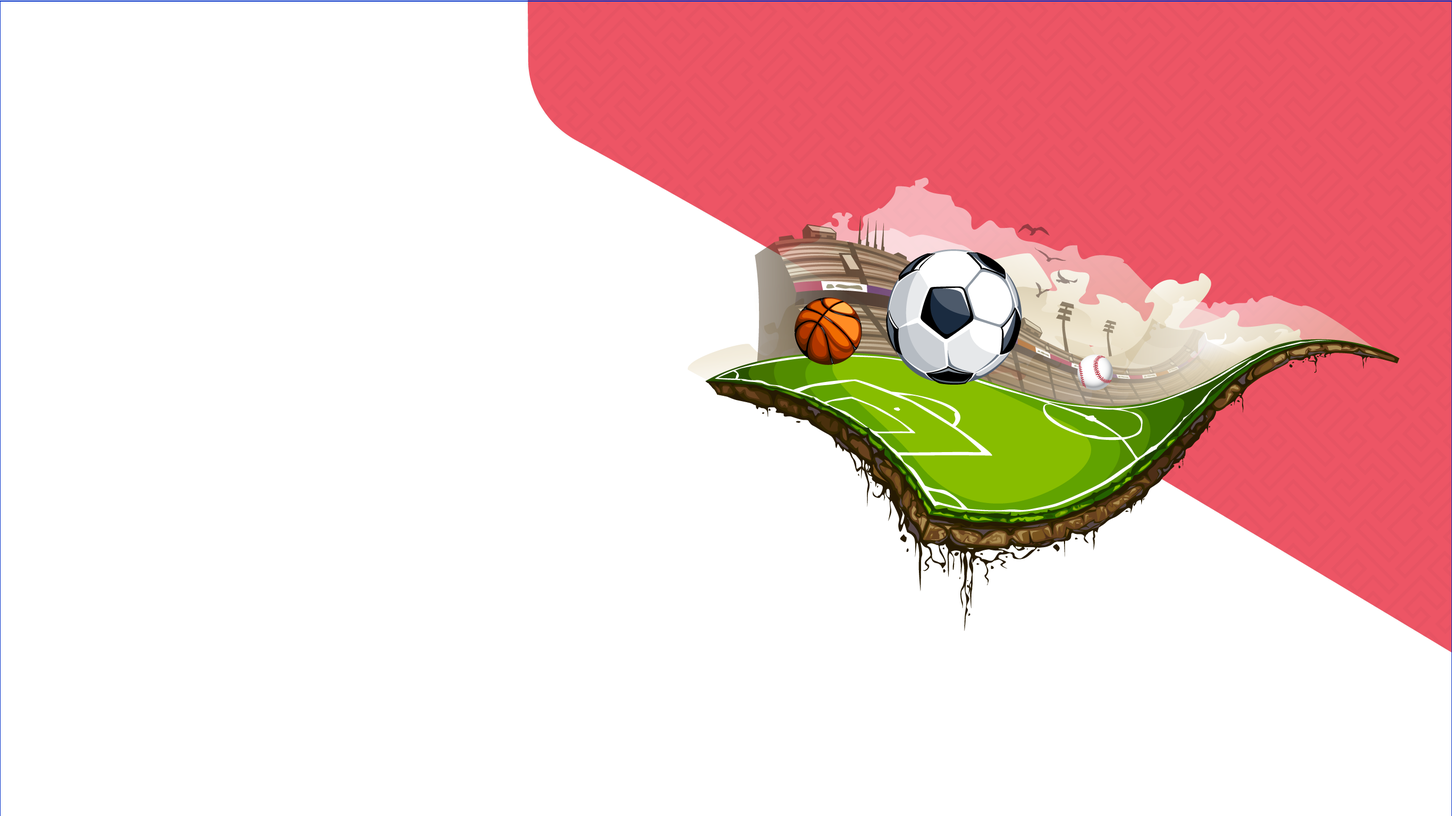
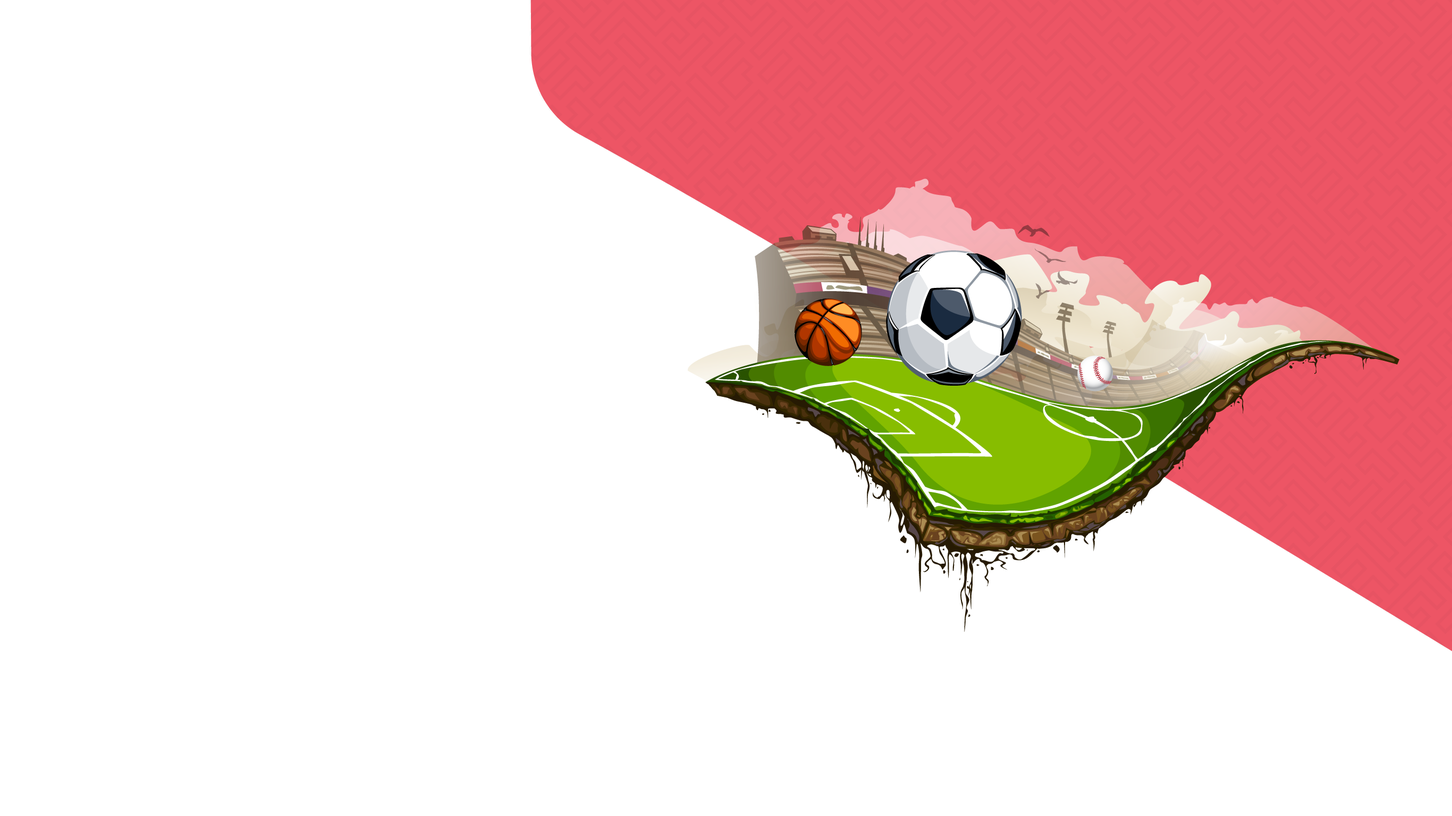
Responsive

diff --git a/cryptochamps/css/css-bundle.css b/cryptochamps/css/css-bundle.css
@@ -1,2 +1,2 @@
-.filter-invert{-webkit-filter:invert(100%);filter:invert(100%)}.clearfix:after,.clearfix:before{content:"";display:table}.clearfix:after{clear:both}.center-block{display:block;margin-left:auto;margin-right:auto}.title{letter-spacing:0!important}.text-overflow-ellipsis{white-space:nowrap;overflow:hidden;text-overflow:ellipsis}@font-face{font-family:Univers;font-weight:300;src:url(../fonts/Univers/Univers-light-normal.ttf) format("truetype")}@font-face{font-family:Univers;font-weight:400;src:url(../fonts/Univers/UniversLTStd.otf) format("opentype")}@font-face{font-family:Univers;font-weight:600;src:url(../fonts/Univers/UniversLTStd-Bold.otf) format("opentype")}@font-face{font-family:Univers;font-weight:700;src:url(../fonts/Univers/UniversBlack.otf) format("truetype")}.container-responsive{overflow:hidden;width:100%;padding:0 100px}@media (max-width:991px){.container-responsive{width:100%;padding:0 15px}}.container-responsive-lg{overflow:hidden;width:86%;margin:0 auto}@media (max-width:991px){.container-responsive-lg{width:100%;padding:0 15px}}.display-table{display:table;width:100%}.display-table>.display-table-row{display:table-row}.display-table>.display-table-row>.display-table-cell{display:table-cell}.display-table-md{display:table;width:100%}.display-table-md>.display-table-row{display:table-row}.display-table-md>.display-table-row>.display-table-cell{display:table-cell}@media (max-width:991px){.display-table-md>.display-table-row>.display-table-cell{display:block;width:100%!important}}.display-table-sm{display:table;width:100%}.display-table-sm>.display-table-row{display:table-row}.display-table-sm>.display-table-row>.display-table-cell{display:table-cell}@media (max-width:767px){.display-table-sm>.display-table-row>.display-table-cell{display:block;width:100%!important}}@media (max-width:991px){.margin-bottom-md-50{margin-bottom:50px}}.margin-bottom-40{margin-bottom:40px!important}.margin-bottom-20{margin-bottom:20px!important}.no-padding{padding:0!important}@media (min-width:768px){.padding-left-sm{padding-left:15px!important}}@media (min-width:992px){.padding-left-md{padding-left:15px!important}}.no-gutter>[class*=col-]{padding-right:0;padding-left:0}@media (min-width:992px){.no-gutter>[class*=col-]{padding-left:15px;padding-right:15px}}@media only screen and (min-width:768px){.is-table-row-sm{display:table}.is-table-row-sm [class*=col-]{float:none;display:table-cell;vertical-align:middle}}@media only screen and (min-width:992px){.is-table-row-md{display:table}.is-table-row-md [class*=col-]{float:none;display:table-cell;vertical-align:middle}}.input:focus{outline:none;-webkit-box-shadow:none;box-shadow:none}.btn-custom{font-family:Univers,sans-serif;font-weight:400;letter-spacing:.03em;text-transform:uppercase;letter-spacing:.15em;font-size:12px;font-size:1.2rem;border-width:.3rem;border-style:solid;padding:1.4rem 3em;border-radius:2.5rem;line-height:1;text-align:center;display:inline-block;cursor:pointer;-webkit-transition:background-color .3s;transition:background-color .3s}.btn-custom.small{padding:.75rem 1rem;line-height:1.2}.btn-custom-white{font-family:Univers,sans-serif;font-weight:400;letter-spacing:.03em;text-transform:uppercase;letter-spacing:.15em;font-size:12px;font-size:1.2rem;border-width:.3rem;border-style:solid;padding:1.4rem 3em;border-radius:2.5rem;line-height:1;text-align:center;display:inline-block;cursor:pointer;-webkit-transition:background-color .3s;transition:background-color .3s;background-color:#fff;color:#000!important}.btn-custom-white.small{padding:.75rem 1rem;line-height:1.2}.btn-custom-white:hover{background-color:#f2f2f2}.btn-custom-mandy{font-family:Univers,sans-serif;font-weight:400;letter-spacing:.03em;text-transform:uppercase;letter-spacing:.15em;font-size:12px;font-size:1.2rem;padding:1.4rem 3em;border-radius:2.5rem;line-height:1;text-align:center;display:inline-block;cursor:pointer;-webkit-transition:background-color .3s;transition:background-color .3s;background-color:#ed5565;border:.3rem solid #ed5565;color:#fff!important}.btn-custom-mandy.small{padding:.75rem 1rem;line-height:1.2}.btn-custom-mandy:hover{background-color:transparent;color:#ed5565!important}.nav{height:8rem;background-color:#fff;border-bottom:.1rem solid #f9f9f9;position:fixed;top:0;left:0;right:0;z-index:1}.nav .container-responsive,.nav .container-responsive>.display-table{height:100%}.nav .container-responsive>.display-table .display-table-cell{vertical-align:middle}.nav .container-responsive>.display-table .display-table-cell:first-of-type{width:30%}@media (min-width:992px){.nav .container-responsive>.display-table .display-table-cell:first-of-type{width:30%}}.nav .container-responsive>.display-table .display-table-cell:first-of-type .logo{height:5.5rem;display:inline-block}.nav .container-responsive>.display-table .display-table-cell:last-of-type{width:70%}@media (min-width:992px){.nav .container-responsive>.display-table .display-table-cell:last-of-type{width:70%}}.home-page{margin-top:8rem}.home-page .header{height:calc(85vh - 8rem);background:url(../img/bg.png),-webkit-gradient(linear,left top,left bottom,from(#f9f9f9),to(#f9f9f9));background:url(../img/bg.png),linear-gradient(#f9f9f9,#f9f9f9);background-position:50%;background-attachment:fixed;background-size:cover;position:relative}.home-page .header .caption{width:40%;position:absolute;top:50%;bottom:auto;left:10rem;-webkit-transform:translateY(-50%);transform:translateY(-50%)}.home-page .header .caption h1{margin-bottom:4rem}.home-page .header .caption h1 span{color:#8ec244}.home-page .section-title-indicator{margin-bottom:4rem}.home-page .section-title-indicator div{height:1rem;background-color:#ed5565;margin-bottom:.5rem}.home-page .section-title-indicator div:first-of-type{width:8.2rem}.home-page .section-title-indicator div:last-of-type{width:6.1rem}.home-page .section-1{padding:5rem 0;position:relative}.home-page .section-1 .section-title{margin-bottom:.3em}.home-page .section-1 .display-table-md{padding:5rem 0;width:80%}.home-page .section-1 .display-table-md .display-table-cell{width:auto}@media (min-width:992px){.home-page .section-1 .display-table-md .display-table-cell{width:33.3%}}.home-page .section-1 .display-table-md .display-table-cell .stat-item img{height:5rem;margin-bottom:1.3rem}.home-page .section-1 .display-table-md .display-table-cell .stat-item h1{line-height:1}.home-page .section-1 .display-table-md .display-table-cell .stat-item h5 span{color:#ed5565}.home-page .section-1 .running{position:absolute;top:10%;right:7%;height:80%;-webkit-transform:scaleX(-1);transform:scaleX(-1)}.home-page .section-2{padding:8rem 0;background-color:#ed5565;color:#fff}.home-page .section-2 .display-table-md{padding:0 15%}.home-page .section-2 .display-table-md .display-table-cell{vertical-align:top}.home-page .section-2 .display-table-md .display-table-cell:first-of-type{width:auto}@media (min-width:992px){.home-page .section-2 .display-table-md .display-table-cell:first-of-type{width:20%}}.home-page .section-2 .display-table-md .display-table-cell:first-of-type img{width:80%;height:auto}.home-page .section-2 .display-table-md .display-table-cell:last-of-type{width:auto;padding-left:5rem}@media (min-width:992px){.home-page .section-2 .display-table-md .display-table-cell:last-of-type{width:80%}}.home-page .section-3 .display-table-md .display-table-cell{padding:8rem 0;vertical-align:middle}.home-page .section-3 .display-table-md .display-table-cell:first-of-type{width:auto;background-color:#f9f9f9}@media (min-width:992px){.home-page .section-3 .display-table-md .display-table-cell:first-of-type{width:40%}}.home-page .section-3 .display-table-md .display-table-cell:first-of-type img{width:70%;max-width:10rem;height:auto;margin-bottom:5rem}.home-page .section-3 .display-table-md .display-table-cell:first-of-type .section-indicator{margin-bottom:3rem}.home-page .section-3 .display-table-md .display-table-cell:last-of-type{width:auto;background-color:#fff}@media (min-width:992px){.home-page .section-3 .display-table-md .display-table-cell:last-of-type{width:60%}}.home-page .section-3 .display-table-md .display-table-cell:last-of-type a,.home-page .section-3 .display-table-md .display-table-cell:last-of-type span{color:#ed5565}.home-page .section-3 .display-table-md .display-table-cell:last-of-type span{font-weight:600}.home-page .section-3 .display-table-md .display-table-cell:last-of-type .subsection{margin-top:7rem}.home-page .section-3 .display-table-md .display-table-cell:last-of-type .subsection img{height:4.5rem;margin-bottom:1.5rem}.home-page .section-3 .display-table-md .display-table-cell:last-of-type .subsection h3{color:#ed5565}.footer{background-color:#3c4a6d}.footer .display-table-md{padding:4rem 0}.footer .display-table-md .display-table-cell:first-of-type{width:auto}@media (min-width:992px){.footer .display-table-md .display-table-cell:first-of-type{width:60%}}.footer .display-table-md .display-table-cell:first-of-type .links{color:#fff;-webkit-column-count:2;column-count:2;-webkit-column-gap:2rem;column-gap:2rem}.footer .display-table-md .display-table-cell:first-of-type .links a{font-size:12px;font-size:1.2rem;margin-bottom:1rem;display:table;opacity:.85;-webkit-transition:opacity .3s;transition:opacity .3s}.footer .display-table-md .display-table-cell:first-of-type .links a:hover{opacity:1}.footer .display-table-md .display-table-cell:last-of-type{width:auto}@media (min-width:992px){.footer .display-table-md .display-table-cell:last-of-type{width:40%}}.footer .display-table-md .display-table-cell:last-of-type .social{margin-bottom:3rem}.footer .display-table-md .display-table-cell:last-of-type .social a{font-size:16px;font-size:1.6rem;opacity:.75;color:#fff;margin-right:1.5rem;-webkit-transition:opacity .3s;transition:opacity .3s}.footer .display-table-md .display-table-cell:last-of-type .social a:hover{opacity:1}.footer .display-table-md .display-table-cell:last-of-type img{height:7rem;padding:1rem;border:.2rem solid #fff}.footer .copyright{font-size:11px;font-size:1.1rem;padding:1rem 0;color:#fff;background-color:#404e74;text-align:center}h1{font-family:Univers,serif;font-weight:600;letter-spacing:.02em;font-size:36.4px;line-height:1.6;margin-bottom:.2em}@media (max-width:992px){h1{font-size:41.6px;font-size:2.73vw;font-size:calc(1px + 2.6vw)}}h2{font-family:Univers,serif;font-weight:600;letter-spacing:.02em;font-size:28px;line-height:1.6;margin-bottom:.5em}@media (max-width:992px){h2{font-size:32px;font-size:2.1vw;font-size:calc(1px + 2vw)}}h3{font-family:Univers,serif;font-weight:600;letter-spacing:.02em;font-size:21px;line-height:1.6;margin-bottom:.5em}@media (max-width:992px){h3{font-size:24px;font-size:1.575vw;font-size:calc(1px + 1.5vw)}}h4{font-family:Univers,serif;font-weight:600;letter-spacing:.02em;font-size:14px;line-height:1.7;margin-bottom:.5em}@media (max-width:992px){h4{font-size:16px;font-size:1.05vw;font-size:calc(1px + 1vw)}}h5{font-family:Univers,serif;font-weight:600;letter-spacing:.02em;font-size:14px;line-height:1.7;margin-bottom:.5em}@media (max-width:992px){h5{font-size:16px;font-size:1.05vw;font-size:calc(1px + 1vw)}}h6{font-family:Univers,serif;font-weight:600;letter-spacing:.02em;font-size:14px;line-height:1.75;margin-bottom:.5em}@media (max-width:992px){h6{font-size:16px;font-size:1.05vw;font-size:calc(1px + 1vw)}}p{line-height:1.75;margin-bottom:1em}body{font-family:Univers,sans-serif;font-weight:400;letter-spacing:.03em;font-size:14px;font-size:1.4rem;line-height:2.12;color:#3c4a6d;overflow-x:hidden;-moz-osx-font-smoothing:grayscale;-webkit-font-smoothing:antialiased;text-rendering:optimizeLegibility}.title{line-height:1.2}::-moz-selection{background-color:#ed5565;color:#fff}::selection{background-color:#ed5565;color:#fff}a{color:inherit}a:active:focus,a:focus,a:hover{text-decoration:none;color:inherit;outline:none}a h1,a h2,a h3,a h4,a h5,a h6,a label,a p,a span{cursor:pointer}button:active:focus,button:focus{outline:none}h1,h2,h3,h4,h5,h6{margin-top:0}.btn,a,button{-webkit-transition:.3s;transition:.3s}.disabled,[disabled]{opacity:.5;cursor:not-allowed!important}.bold-first-letter:first-letter{letter-spacing:.05em;text-transform:uppercase;letter-spacing:.06em}.bold,.bold-first-letter:first-letter{font-family:Univers,sans-serif;font-weight:700}.bold{letter-spacing:.05em}.naira:after{content:"\20A6";font-style:normal}.custom-form-group{margin-bottom:2rem}@media (min-width:992px){.custom-form-group{margin-bottom:3rem}}.magik{-webkit-transform:translateY(100px);transform:translateY(100px);opacity:0;-webkit-transition:opacity .6s,-webkit-transform .6s;transition:opacity .6s,-webkit-transform .6s;transition:transform .6s,opacity .6s;transition:transform .6s,opacity .6s,-webkit-transform .6s}.magik.on{-webkit-transform:none;transform:none;opacity:1}
+.filter-invert{-webkit-filter:invert(100%);filter:invert(100%)}.clearfix:after,.clearfix:before{content:"";display:table}.clearfix:after{clear:both}.center-block{display:block;margin-left:auto;margin-right:auto}.title{letter-spacing:0!important}.text-overflow-ellipsis{white-space:nowrap;overflow:hidden;text-overflow:ellipsis}@font-face{font-family:Univers;font-weight:300;src:url(../fonts/Univers/Univers-light-normal.ttf) format("truetype")}@font-face{font-family:Univers;font-weight:400;src:url(../fonts/Univers/UniversLTStd.otf) format("opentype")}@font-face{font-family:Univers;font-weight:600;src:url(../fonts/Univers/UniversLTStd-Bold.otf) format("opentype")}@font-face{font-family:Univers;font-weight:700;src:url(../fonts/Univers/UniversBlack.otf) format("truetype")}.container-responsive{overflow:hidden;width:100%;padding:0 100px}@media (max-width:991px){.container-responsive{width:100%;padding:0 15px}}.container-responsive-lg{overflow:hidden;width:86%;margin:0 auto}@media (max-width:991px){.container-responsive-lg{width:100%;padding:0 15px}}.display-table{display:table;width:100%}.display-table>.display-table-row{display:table-row}.display-table>.display-table-row>.display-table-cell{display:table-cell}.display-table-md{display:table;width:100%}.display-table-md>.display-table-row{display:table-row}.display-table-md>.display-table-row>.display-table-cell{display:table-cell}@media (max-width:991px){.display-table-md>.display-table-row>.display-table-cell{display:block;width:100%!important}}.display-table-sm{display:table;width:100%}.display-table-sm>.display-table-row{display:table-row}.display-table-sm>.display-table-row>.display-table-cell{display:table-cell}@media (max-width:767px){.display-table-sm>.display-table-row>.display-table-cell{display:block;width:100%!important}}@media (max-width:991px){.margin-bottom-md-50{margin-bottom:50px}}.margin-bottom-40{margin-bottom:40px!important}.margin-bottom-20{margin-bottom:20px!important}.no-padding{padding:0!important}@media (min-width:768px){.padding-left-sm{padding-left:15px!important}}@media (min-width:992px){.padding-left-md{padding-left:15px!important}}.no-gutter>[class*=col-]{padding-right:0;padding-left:0}@media (min-width:992px){.no-gutter>[class*=col-]{padding-left:15px;padding-right:15px}}@media only screen and (min-width:768px){.is-table-row-sm{display:table}.is-table-row-sm [class*=col-]{float:none;display:table-cell;vertical-align:middle}}@media only screen and (min-width:992px){.is-table-row-md{display:table}.is-table-row-md [class*=col-]{float:none;display:table-cell;vertical-align:middle}}.input:focus{outline:none;-webkit-box-shadow:none;box-shadow:none}.btn-custom{font-family:Univers,sans-serif;font-weight:400;letter-spacing:.03em;text-transform:uppercase;letter-spacing:.15em;font-size:12px;font-size:1.2rem;border-width:.3rem;border-style:solid;padding:1.4rem 3em;border-radius:2.5rem;line-height:1;text-align:center;display:inline-block;cursor:pointer;-webkit-transition:background-color .3s;transition:background-color .3s}.btn-custom.small{padding:.75rem 1rem;line-height:1.2}.btn-custom-white{font-family:Univers,sans-serif;font-weight:400;letter-spacing:.03em;text-transform:uppercase;letter-spacing:.15em;font-size:12px;font-size:1.2rem;border-width:.3rem;border-style:solid;padding:1.4rem 3em;border-radius:2.5rem;line-height:1;text-align:center;display:inline-block;cursor:pointer;-webkit-transition:background-color .3s;transition:background-color .3s;background-color:#fff;color:#000!important}.btn-custom-white.small{padding:.75rem 1rem;line-height:1.2}.btn-custom-white:hover{background-color:#f2f2f2}.btn-custom-mandy{font-family:Univers,sans-serif;font-weight:400;letter-spacing:.03em;text-transform:uppercase;letter-spacing:.15em;font-size:12px;font-size:1.2rem;padding:1.4rem 3em;border-radius:2.5rem;line-height:1;text-align:center;display:inline-block;cursor:pointer;-webkit-transition:background-color .3s;transition:background-color .3s;background-color:#ed5565;border:.3rem solid #ed5565;color:#fff!important}.btn-custom-mandy.small{padding:.75rem 1rem;line-height:1.2}.btn-custom-mandy:hover{background-color:transparent;color:#ed5565!important}.nav{height:8rem;background-color:#fff;border-bottom:.1rem solid #f9f9f9;position:fixed;top:0;left:0;right:0;z-index:1}.nav .container-responsive,.nav .container-responsive>.display-table{height:100%}.nav .container-responsive>.display-table .display-table-cell{vertical-align:middle}.nav .container-responsive>.display-table .display-table-cell:first-of-type{width:30%}@media (min-width:992px){.nav .container-responsive>.display-table .display-table-cell:first-of-type{width:30%}}.nav .container-responsive>.display-table .display-table-cell:first-of-type .logo{height:5.5rem;display:inline-block}.nav .container-responsive>.display-table .display-table-cell:last-of-type{width:70%}@media (min-width:992px){.nav .container-responsive>.display-table .display-table-cell:last-of-type{width:70%}}.home-page{margin-top:8rem}.home-page .header{height:calc(85vh - 8rem);background:url(../img/bg.png),-webkit-gradient(linear,left top,left bottom,from(#f9f9f9),to(#f9f9f9));background:url(../img/bg.png),linear-gradient(#f9f9f9,#f9f9f9);background-position:50%;background-attachment:fixed;background-size:cover;position:relative}@media (max-width:992px){.home-page .header{height:calc(93vh - 8rem);background-attachment:unset;background:url(../img/bg-mobile.png),-webkit-gradient(linear,left top,left bottom,from(#f9f9f9),to(#f9f9f9));background:url(../img/bg-mobile.png),linear-gradient(#f9f9f9,#f9f9f9);background-position:50%;background-size:cover}}.home-page .header .caption{width:40%;position:absolute;top:50%;bottom:auto;left:10rem;-webkit-transform:translateY(-50%);transform:translateY(-50%)}@media (max-width:992px){.home-page .header .caption{width:90%;left:5%;top:auto;bottom:2rem;-webkit-transform:none;transform:none;text-align:center}}.home-page .header .caption h1,.home-page .header .caption h2,.home-page .header .caption h3,.home-page .header .caption h4,.home-page .header .caption h5,.home-page .header .caption h6{margin-bottom:4rem}@media (max-width:992px){.home-page .header .caption h1,.home-page .header .caption h2,.home-page .header .caption h3,.home-page .header .caption h4,.home-page .header .caption h5,.home-page .header .caption h6{margin-bottom:2rem}}.home-page .header .caption h1 span,.home-page .header .caption h2 span,.home-page .header .caption h3 span,.home-page .header .caption h4 span,.home-page .header .caption h5 span,.home-page .header .caption h6 span{color:#8ec244}.home-page .section-title-indicator{margin-bottom:4rem}@media (max-width:992px){.home-page .section-title-indicator{margin-bottom:2rem}}.home-page .section-title-indicator div{height:1rem;background-color:#ed5565;margin-bottom:.5rem}.home-page .section-title-indicator div:first-of-type{width:8.2rem}.home-page .section-title-indicator div:last-of-type{width:6.1rem}.home-page .section-1{padding:5rem 0;position:relative}@media (max-width:992px){.home-page .section-1{padding:1.5rem 0}}.home-page .section-1 .section-title{margin-bottom:.3em}.home-page .section-1 .display-table-md{padding:5rem 0;width:80%}@media (max-width:992px){.home-page .section-1 .display-table-md{padding:2rem 0}}.home-page .section-1 .display-table-md .display-table-cell{width:auto}@media (min-width:992px){.home-page .section-1 .display-table-md .display-table-cell{width:33.3%}}@media (max-width:992px){.home-page .section-1 .display-table-md .display-table-cell .stat-item{margin-bottom:4rem}}@media (max-width:992px){.home-page .section-1 .display-table-md .display-table-cell .stat-item.last{margin-bottom:0}}.home-page .section-1 .display-table-md .display-table-cell .stat-item img{height:5rem;margin-bottom:1.3rem}.home-page .section-1 .display-table-md .display-table-cell .stat-item h1{line-height:1}.home-page .section-1 .display-table-md .display-table-cell .stat-item h5 span{color:#ed5565}.home-page .section-1 .running{position:absolute;top:10%;right:7%;height:80%;-webkit-transform:scaleX(-1);transform:scaleX(-1)}@media (max-width:992px){.home-page .section-1 .running{right:-20%}}@media (max-width:768px){.home-page .section-1 .running{right:-90%}}.home-page .section-2{padding:8rem 0;background-color:#ed5565;color:#fff}@media (max-width:992px){.home-page .section-2{padding:3.5rem 0}}.home-page .section-2 .display-table-md{padding:0 15%}@media (max-width:992px){.home-page .section-2 .display-table-md{padding:0;text-align:center}}.home-page .section-2 .display-table-md .display-table-cell{vertical-align:top}.home-page .section-2 .display-table-md .display-table-cell:first-of-type{width:auto}@media (min-width:992px){.home-page .section-2 .display-table-md .display-table-cell:first-of-type{width:20%}}.home-page .section-2 .display-table-md .display-table-cell:first-of-type img{width:80%;height:auto}@media (max-width:992px){.home-page .section-2 .display-table-md .display-table-cell:first-of-type img{width:auto;height:10rem;margin-bottom:2rem}}.home-page .section-2 .display-table-md .display-table-cell:last-of-type{width:auto;padding-left:5rem}@media (min-width:992px){.home-page .section-2 .display-table-md .display-table-cell:last-of-type{width:80%}}@media (max-width:992px){.home-page .section-2 .display-table-md .display-table-cell:last-of-type div{text-align:justify}}@media (max-width:992px){.home-page .section-2 .display-table-md .display-table-cell:last-of-type{padding-left:0}}.home-page .section-3 .display-table-md .display-table-cell{padding:8rem 0;vertical-align:middle}@media (max-width:992px){.home-page .section-3 .display-table-md .display-table-cell{padding:1.5rem 0}}.home-page .section-3 .display-table-md .display-table-cell:first-of-type{width:auto;background-color:#f9f9f9}@media (min-width:992px){.home-page .section-3 .display-table-md .display-table-cell:first-of-type{width:40%}}.home-page .section-3 .display-table-md .display-table-cell:first-of-type img{width:70%;max-width:10rem;height:auto;margin-bottom:5rem}@media (max-width:992px){.home-page .section-3 .display-table-md .display-table-cell:first-of-type img{margin-bottom:3rem}}.home-page .section-3 .display-table-md .display-table-cell:first-of-type .section-indicator{margin-bottom:3rem}@media (max-width:992px){.home-page .section-3 .display-table-md .display-table-cell:first-of-type .section-indicator{margin-bottom:1rem}}.home-page .section-3 .display-table-md .display-table-cell:first-of-type .section-title{margin-bottom:0}.home-page .section-3 .display-table-md .display-table-cell:last-of-type{width:auto;background-color:#fff}@media (min-width:992px){.home-page .section-3 .display-table-md .display-table-cell:last-of-type{width:60%}}.home-page .section-3 .display-table-md .display-table-cell:last-of-type a,.home-page .section-3 .display-table-md .display-table-cell:last-of-type span{color:#ed5565}.home-page .section-3 .display-table-md .display-table-cell:last-of-type span{font-weight:600}.home-page .section-3 .display-table-md .display-table-cell:last-of-type .subsection{margin-top:7rem}@media (max-width:992px){.home-page .section-3 .display-table-md .display-table-cell:last-of-type .subsection{margin-top:4rem}}.home-page .section-3 .display-table-md .display-table-cell:last-of-type .subsection img{height:4.5rem;margin-bottom:1.5rem}.home-page .section-3 .display-table-md .display-table-cell:last-of-type .subsection h3{color:#ed5565}.footer{background-color:#3c4a6d}.footer .display-table-md{padding:4rem 0}.footer .display-table-md .display-table-cell:first-of-type{width:auto}@media (min-width:992px){.footer .display-table-md .display-table-cell:first-of-type{width:60%}}.footer .display-table-md .display-table-cell:first-of-type .links{color:#fff;-webkit-column-count:2;column-count:2;-webkit-column-gap:2rem;column-gap:2rem}.footer .display-table-md .display-table-cell:first-of-type .links a{font-size:12px;font-size:1.2rem;margin-bottom:1rem;display:table;opacity:.85;-webkit-transition:opacity .3s;transition:opacity .3s}.footer .display-table-md .display-table-cell:first-of-type .links a:hover{opacity:1}.footer .display-table-md .display-table-cell:last-of-type{width:auto}@media (min-width:992px){.footer .display-table-md .display-table-cell:last-of-type{width:40%}}.footer .display-table-md .display-table-cell:last-of-type .social{margin-bottom:3rem}@media (max-width:992px){.footer .display-table-md .display-table-cell:last-of-type .social{margin-bottom:2rem}}.footer .display-table-md .display-table-cell:last-of-type .social a{font-size:16px;font-size:1.6rem;opacity:.75;color:#fff;margin-right:1.5rem;-webkit-transition:opacity .3s;transition:opacity .3s}.footer .display-table-md .display-table-cell:last-of-type .social a:hover{opacity:1}.footer .display-table-md .display-table-cell:last-of-type img{height:7rem;padding:1rem;border:.2rem solid #fff}.footer .copyright{font-size:11px;font-size:1.1rem;padding:1rem 0;color:#fff;background-color:#404e74;text-align:center}h1{font-family:Univers,serif;font-weight:600;letter-spacing:.02em;font-size:41.6px;font-size:2.73vw;font-size:calc(1px + 2.6vw);line-height:1.6;margin-bottom:.2em}@media (max-width:992px){h1{font-size:36.4px}}h2{font-family:Univers,serif;font-weight:600;letter-spacing:.02em;font-size:32px;font-size:2.1vw;font-size:calc(1px + 2vw);line-height:1.6;margin-bottom:.5em}@media (max-width:992px){h2{font-size:28px}}h3{font-family:Univers,serif;font-weight:600;letter-spacing:.02em;font-size:24px;font-size:1.575vw;font-size:calc(1px + 1.5vw);line-height:1.6;margin-bottom:.5em}@media (max-width:992px){h3{font-size:21px}}h4{font-family:Univers,serif;font-weight:600;letter-spacing:.02em;font-size:16px;font-size:1.05vw;font-size:calc(1px + 1vw);line-height:1.7;margin-bottom:.5em}@media (max-width:992px){h4{font-size:14px}}h5{font-family:Univers,serif;font-weight:600;letter-spacing:.02em;font-size:16px;font-size:1.05vw;font-size:calc(1px + 1vw);line-height:1.7;margin-bottom:.5em}@media (max-width:992px){h5{font-size:14px}}h6{font-family:Univers,serif;font-weight:600;letter-spacing:.02em;font-size:16px;font-size:1.05vw;font-size:calc(1px + 1vw);line-height:1.75;margin-bottom:.5em}@media (max-width:992px){h6{font-size:14px}}p{line-height:1.75;margin-bottom:1em}body{font-family:Univers,sans-serif;font-weight:400;letter-spacing:.03em;font-size:14px;font-size:1.4rem;line-height:2.12;color:#3c4a6d;overflow-x:hidden;-moz-osx-font-smoothing:grayscale;-webkit-font-smoothing:antialiased;text-rendering:optimizeLegibility}.title{line-height:1.2}::-moz-selection{background-color:#ed5565;color:#fff}::selection{background-color:#ed5565;color:#fff}a{color:inherit}a:active:focus,a:focus,a:hover{text-decoration:none;color:inherit;outline:none}a h1,a h2,a h3,a h4,a h5,a h6,a label,a p,a span{cursor:pointer}button:active:focus,button:focus{outline:none}h1,h2,h3,h4,h5,h6{margin-top:0}.btn,a,button{-webkit-transition:.3s;transition:.3s}.disabled,[disabled]{opacity:.5;cursor:not-allowed!important}.bold-first-letter:first-letter{letter-spacing:.05em;text-transform:uppercase;letter-spacing:.06em}.bold,.bold-first-letter:first-letter{font-family:Univers,sans-serif;font-weight:700}.bold{letter-spacing:.05em}.naira:after{content:"\20A6";font-style:normal}.custom-form-group{margin-bottom:2rem}@media (min-width:992px){.custom-form-group{margin-bottom:3rem}}.magik{-webkit-transform:translateY(100px);transform:translateY(100px);opacity:0;-webkit-transition:opacity .6s,-webkit-transform .6s;transition:opacity .6s,-webkit-transform .6s;transition:transform .6s,opacity .6s;transition:transform .6s,opacity .6s,-webkit-transform .6s}.magik.on{-webkit-transform:none;transform:none;opacity:1}
 /*# sourceMappingURL=css-bundle.css.map*/

diff --git a/cryptochamps/index.html b/cryptochamps/index.html
@@ -32,9 +32,9 @@
     <header class="header">
         <div class="container-responsive">
             <div class="caption">
-                <h1>
+                <h2>
                     Collect One-of-a-kind <span>Sports Champions</span> Smart Contracts
-                </h1>
+                </h2>
                 <a href="" class="btn-custom-mandy">
                     Start Trading
                 </a>
@@ -73,7 +73,7 @@
                         </div>
                     </div>
                     <div class="display-table-cell">
-                        <div class="stat-item" data-magik="magik">
+                        <div class="stat-item last" data-magik="magik">
                             <img src="img/hoodlers.svg" alt="">
                             <h1>
                                 233
